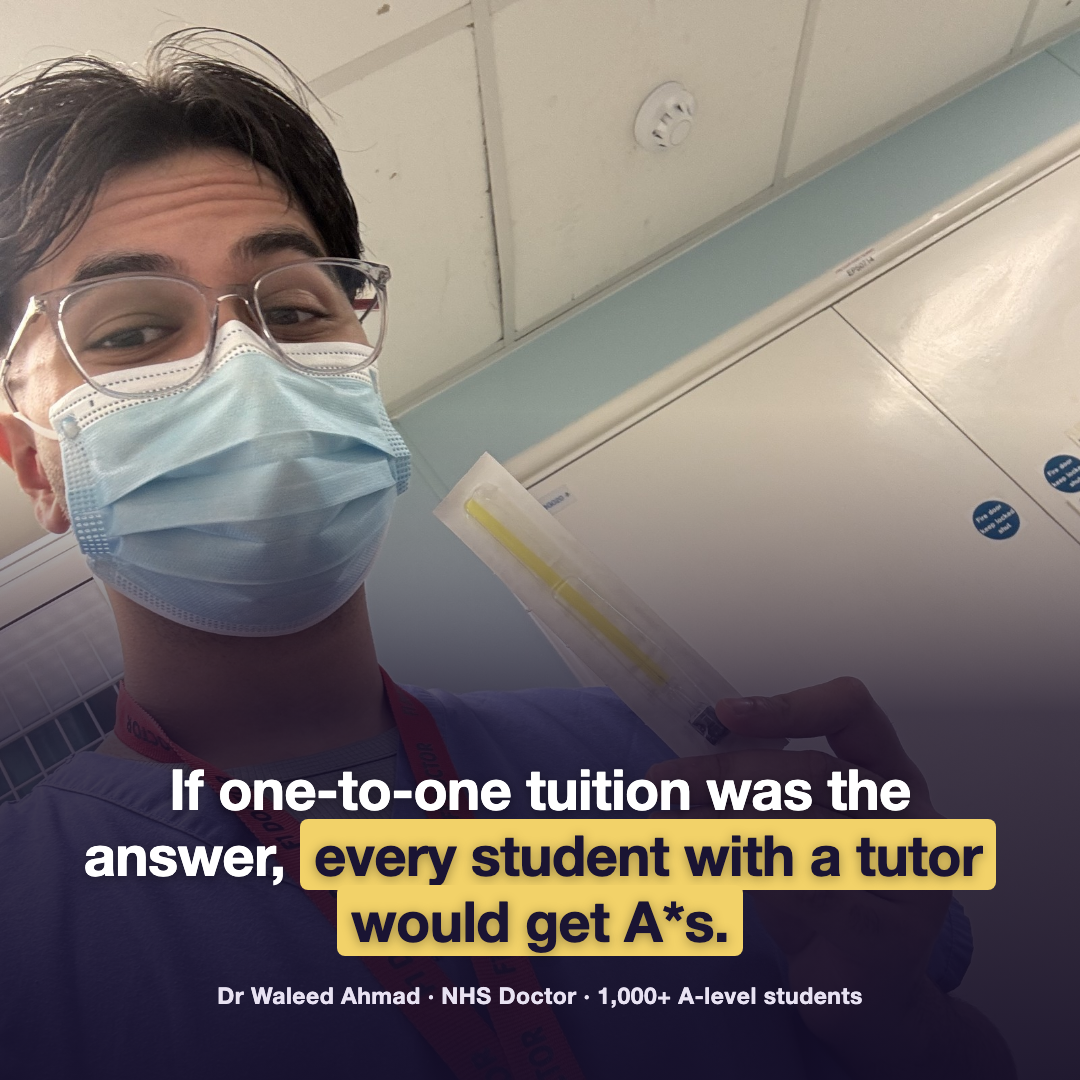
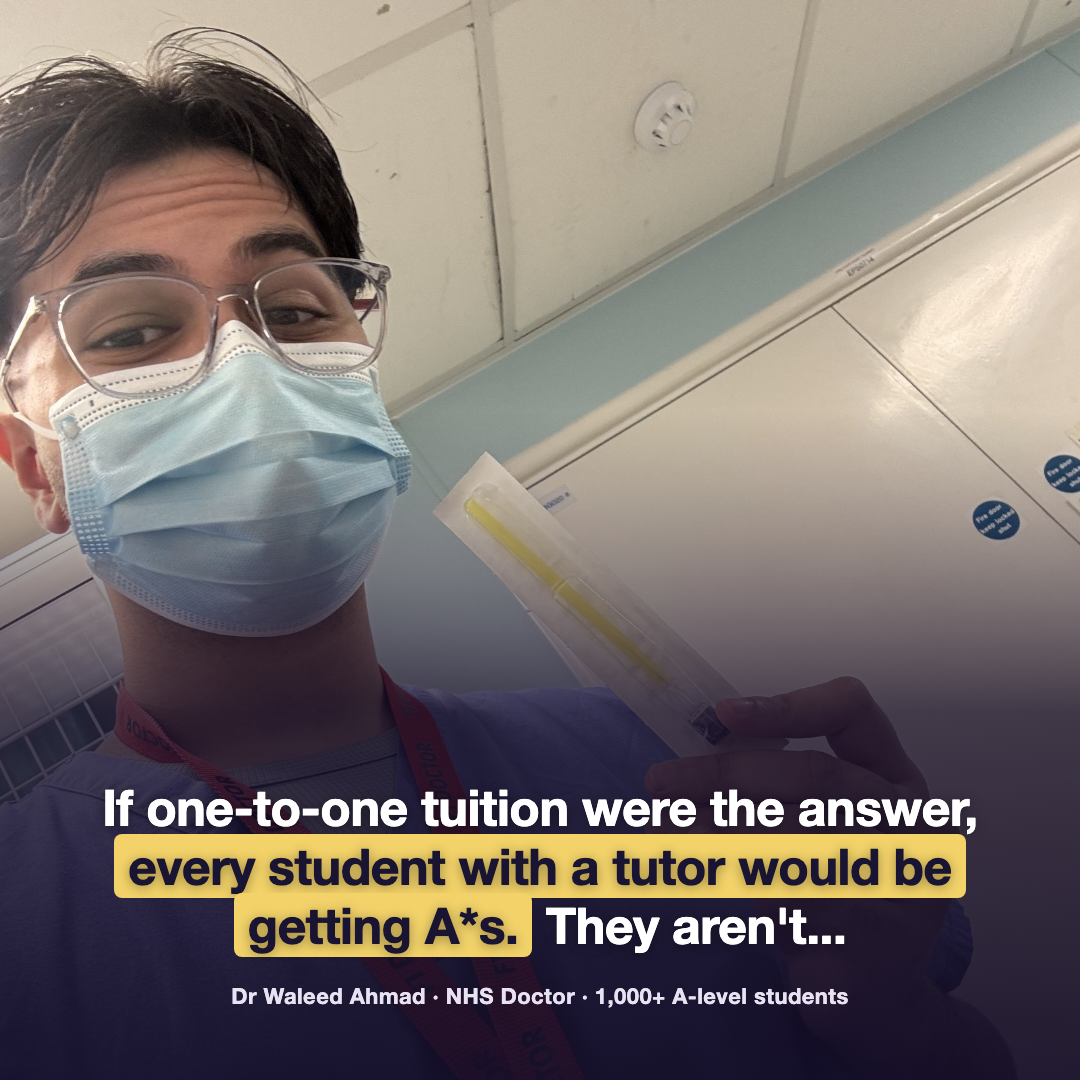
Round 4 overlay cards: wording changed to Waleed's line (were the answer, would be getting A*s, They aren't...)

Changed region(s): [[0.0611, 0.7028, 0.9472, 0.8861], [0.1833, 0.9167, 0.7944, 0.9472]]

diff --git a/content/meta-ads/2026-10-02-round-4-angle-test/src/gen-tutor-overlay.py b/content/meta-ads/2026-10-02-round-4-angle-test/src/gen-tutor-overlay.py
@@ -13,8 +13,8 @@ OUT = HERE.parent / "final"; OUT.mkdir(exist_ok=True)
 PHOTOS = {"pen": HERE / "photos/doctor-pen-600.jpg", "mask": HERE / "photos/doctor-original-upright.jpg"}
 CRED = "Dr Waleed Ahmad &middot; NHS Doctor &middot; 1,000+ A-level students"
 CONCEPTS = [
-    ("o1-tutor-mask", "mask", "If one-to-one tuition was the answer,", "every student with a tutor would get A*s.", ""),
-    ("o2-tutor-pen",  "pen",  "If one-to-one tuition was the answer,", "every student with a tutor would get A*s.", ""),
+    ("o1-tutor-mask", "mask", "If one-to-one tuition were the answer,", "every student with a tutor would be getting A*s.", "They aren't..."),
+    ("o2-tutor-pen",  "pen",  "If one-to-one tuition were the answer,", "every student with a tutor would be getting A*s.", "They aren't..."),
 ]
 # ratio: (w, h, photo focus y, text block bottom, gradient start)
 RATIOS = {"1x1": (1080, 1080, "18%", 70, 38), "4x5": (1080, 1350, "20%", 80, 42), "9x16": (1080, 1920, "22%", 340, 48)}
